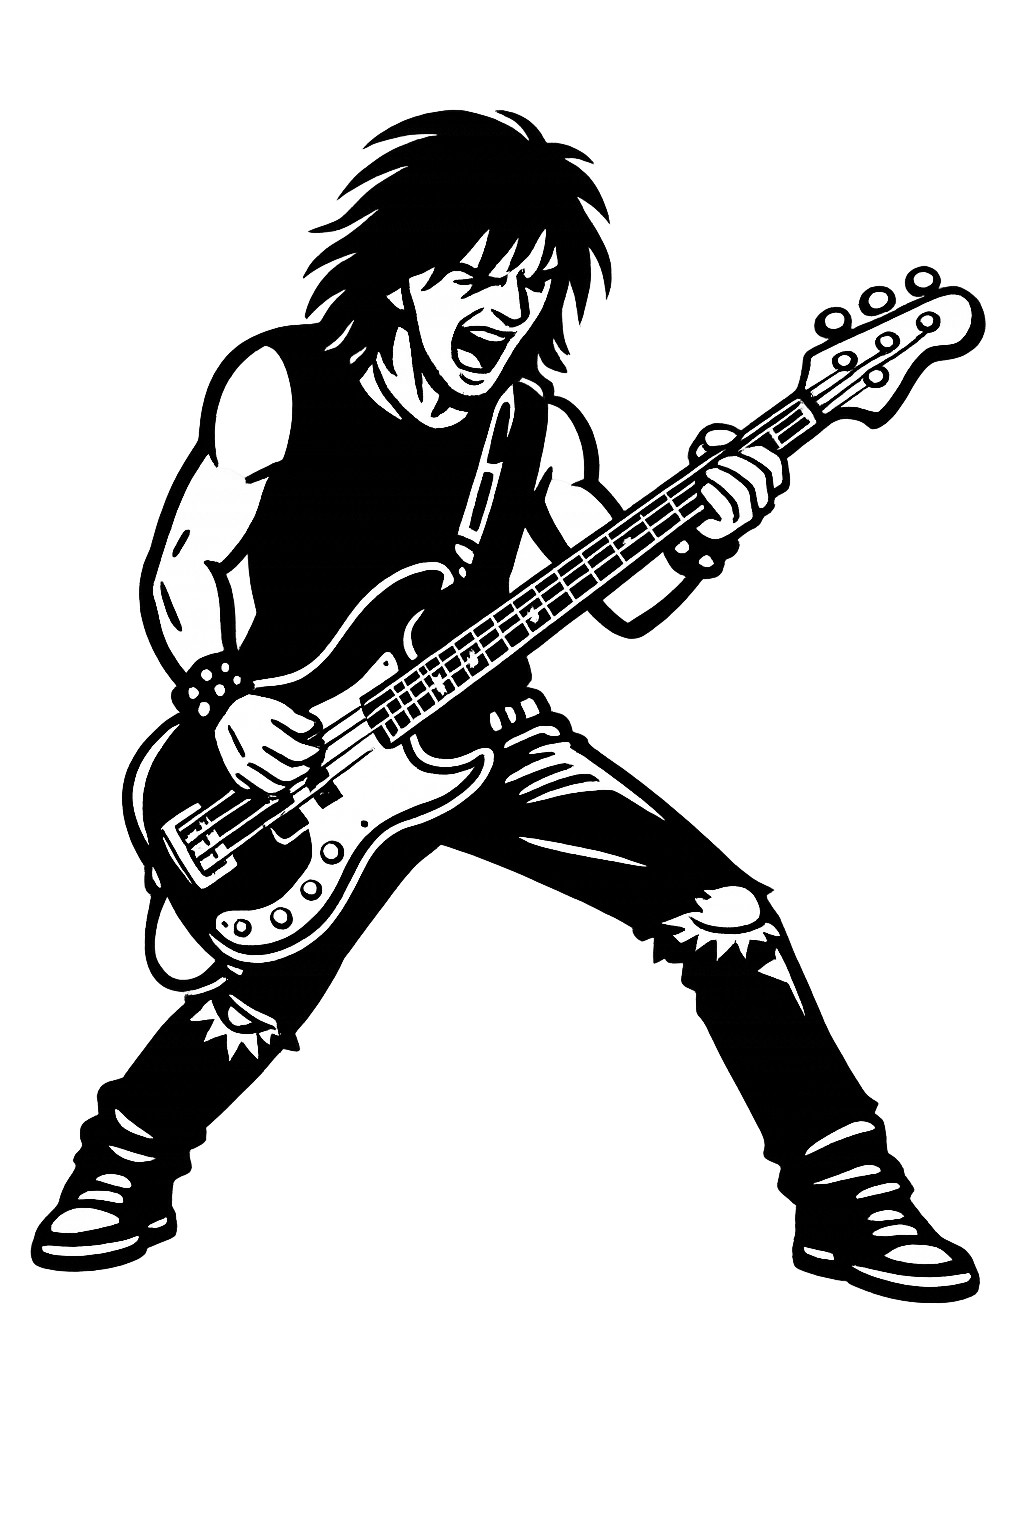
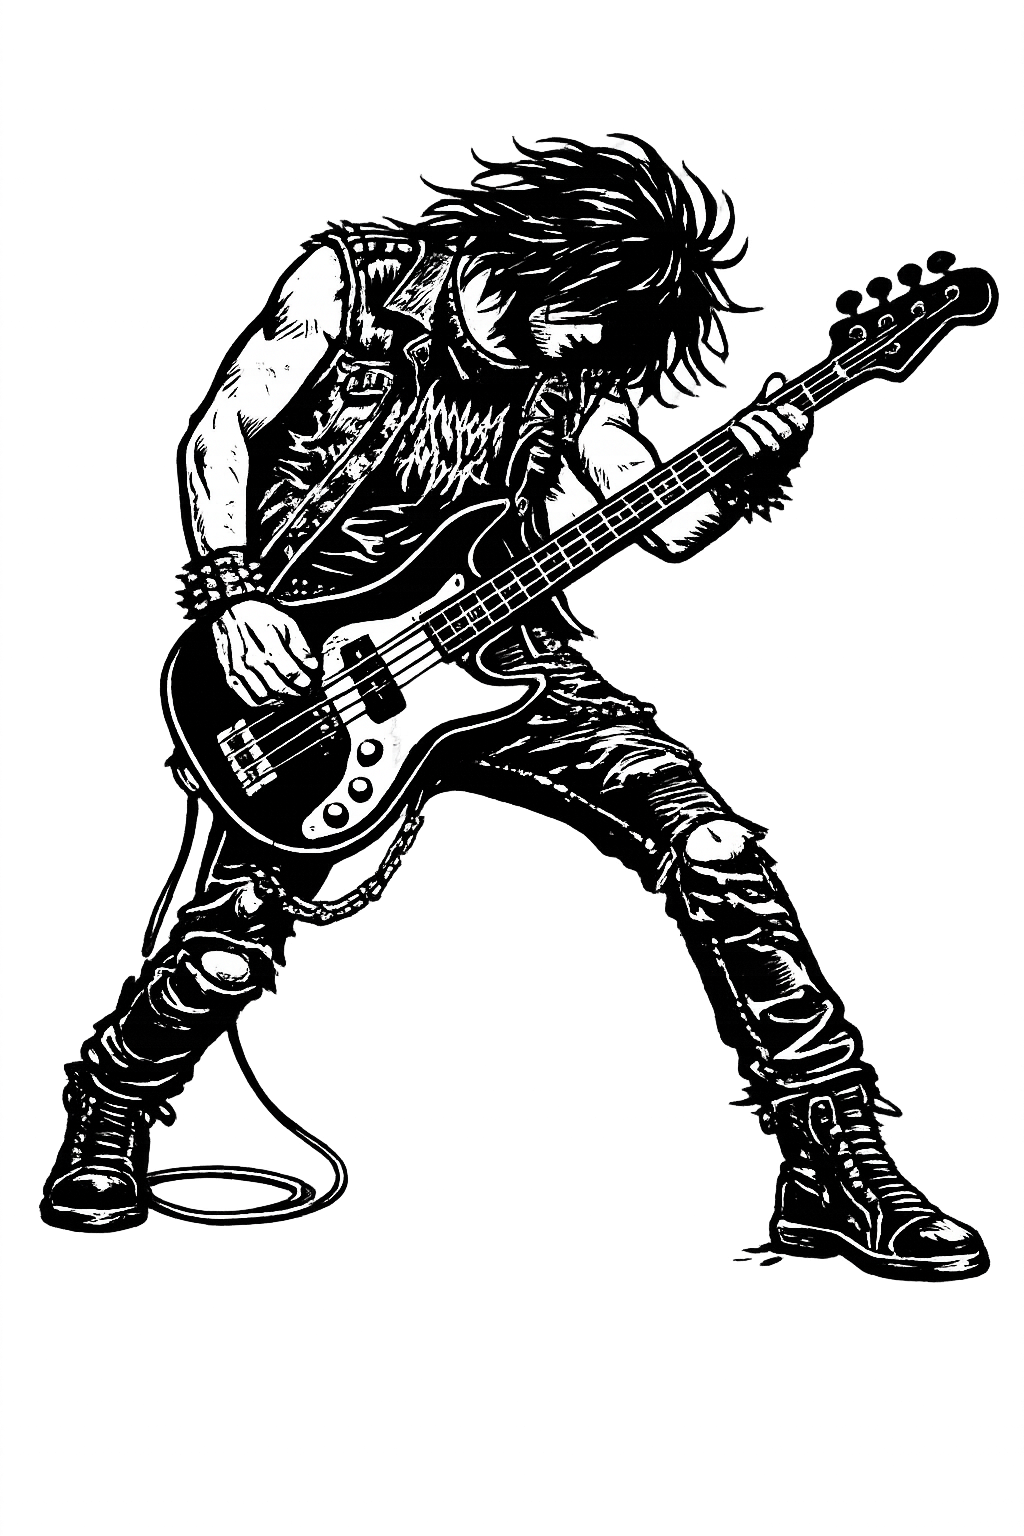
fix: image issues

Changed region(s): [[0.0312, 0.0625, 1.0, 0.875]]

diff --git a/style.css b/style.css
@@ -553,18 +553,20 @@ input:focus { outline: none; border-color: var(--ink); box-shadow: 2px 2px 0 var
   flex: 1;
   align-items: flex-end;
 
-  /* rehearsal room: aged wall + wood floor */
-  background:
-    repeating-linear-gradient(
-      180deg,
-      transparent 0px, transparent 28px,
-      rgba(0,0,0,0.05) 28px, rgba(0,0,0,0.05) 30px
-    ),
-    linear-gradient(
-      180deg,
-      #cec3a8 0%, #cec3a8 58%,
-      #7a4e1e 58%, #6b4118 100%
-    );
+  background-color: var(--cream);
+  position: relative;
+}
+
+#members-area::before {
+  content: '';
+  position: absolute;
+  inset: 0;
+  background-image: url('assets/rehearsal_room.png');
+  background-size: cover;
+  background-position: center center;
+  filter: brightness(1.4) contrast(4);
+  mix-blend-mode: multiply;
+  pointer-events: none;
 }
 
 #chemistry-display {
@@ -610,21 +612,12 @@ input:focus { outline: none; border-color: var(--ink); box-shadow: 2px 2px 0 var
   flex-shrink: 0;
 }
 
-.member-avatar-wrap.dark-bg {
-  background: #111;
-}
-
 .member-avatar {
   width: 100%;
   height: 100%;
   object-fit: contain;
   display: block;
   mix-blend-mode: multiply;
-}
-
-.member-avatar-wrap.dark-bg .member-avatar {
-  mix-blend-mode: screen;
-  filter: brightness(1.8) contrast(1.4);
 }
 
 .injured-overlay {

diff --git a/game.js b/game.js
@@ -827,7 +827,6 @@ function renderMember(m) {
   const canCowrite  = gs.members.length >= 2;
   const canLesson   = gs.money >= 150;
   const canWorkshop = gs.money >= 80;
-  const darkBg    = ROLE_AVATAR_DARK.has(m.role);
 
   const actions = [
     { type:'practice', label:'Practice',  sub:'Technical',        tip: null },
@@ -851,7 +850,7 @@ function renderMember(m) {
 
   return `
     <div class="member-card">
-      <div class="member-avatar-wrap ${darkBg ? 'dark-bg' : ''}">
+      <div class="member-avatar-wrap">
         <img class="member-avatar" src="${ROLE_AVATARS[m.role]}" alt="${m.role}">
         ${injured ? `<div class="injured-overlay">INJURED<br>${m.injuredWeeks}w left</div>` : ''}
       </div>
